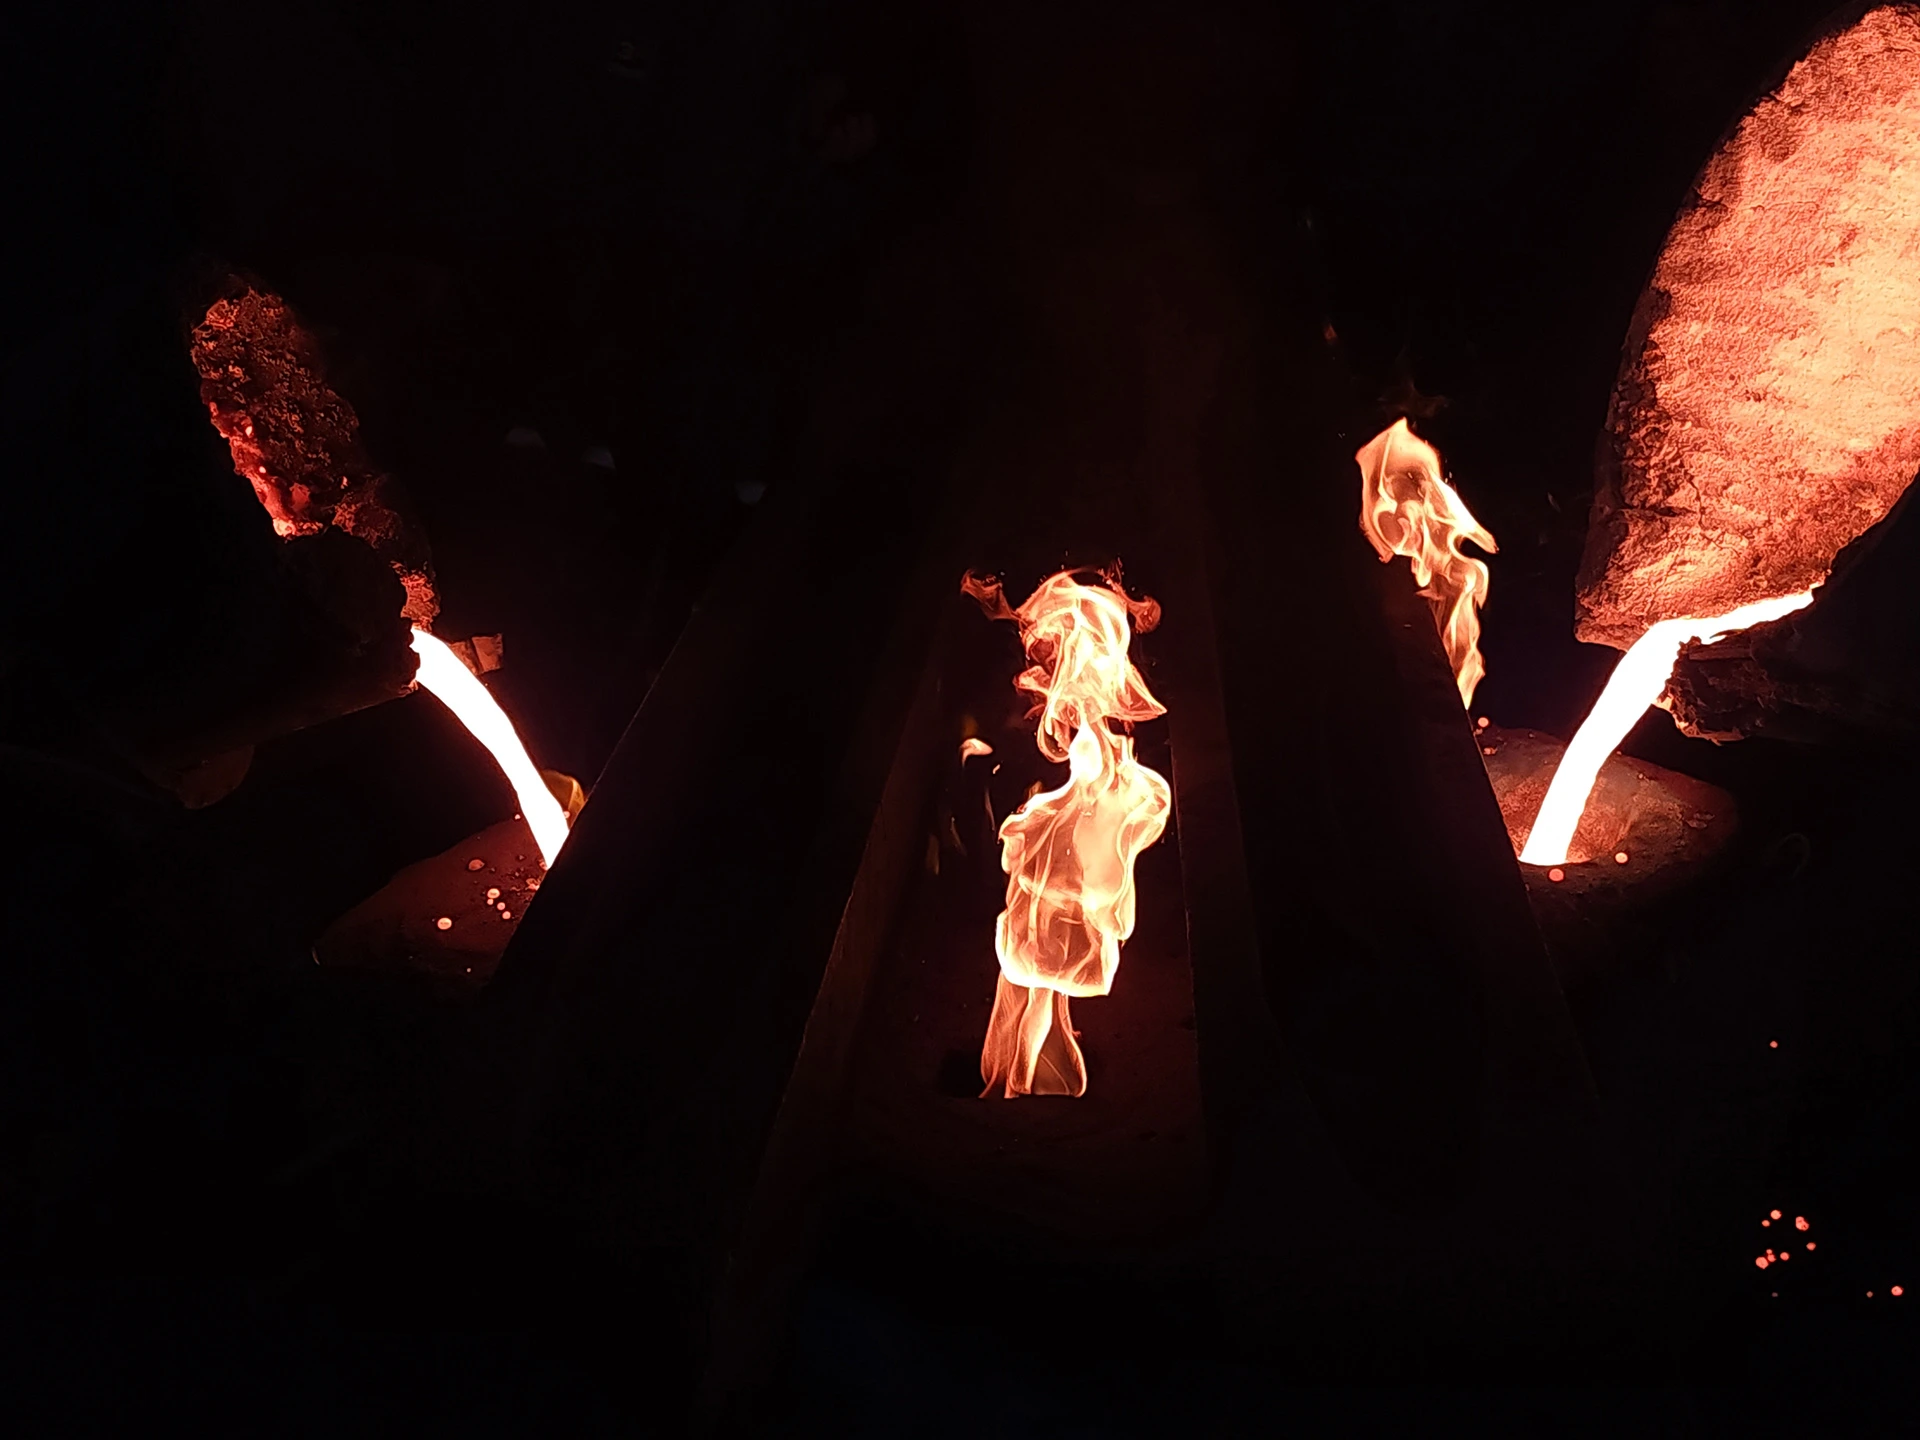
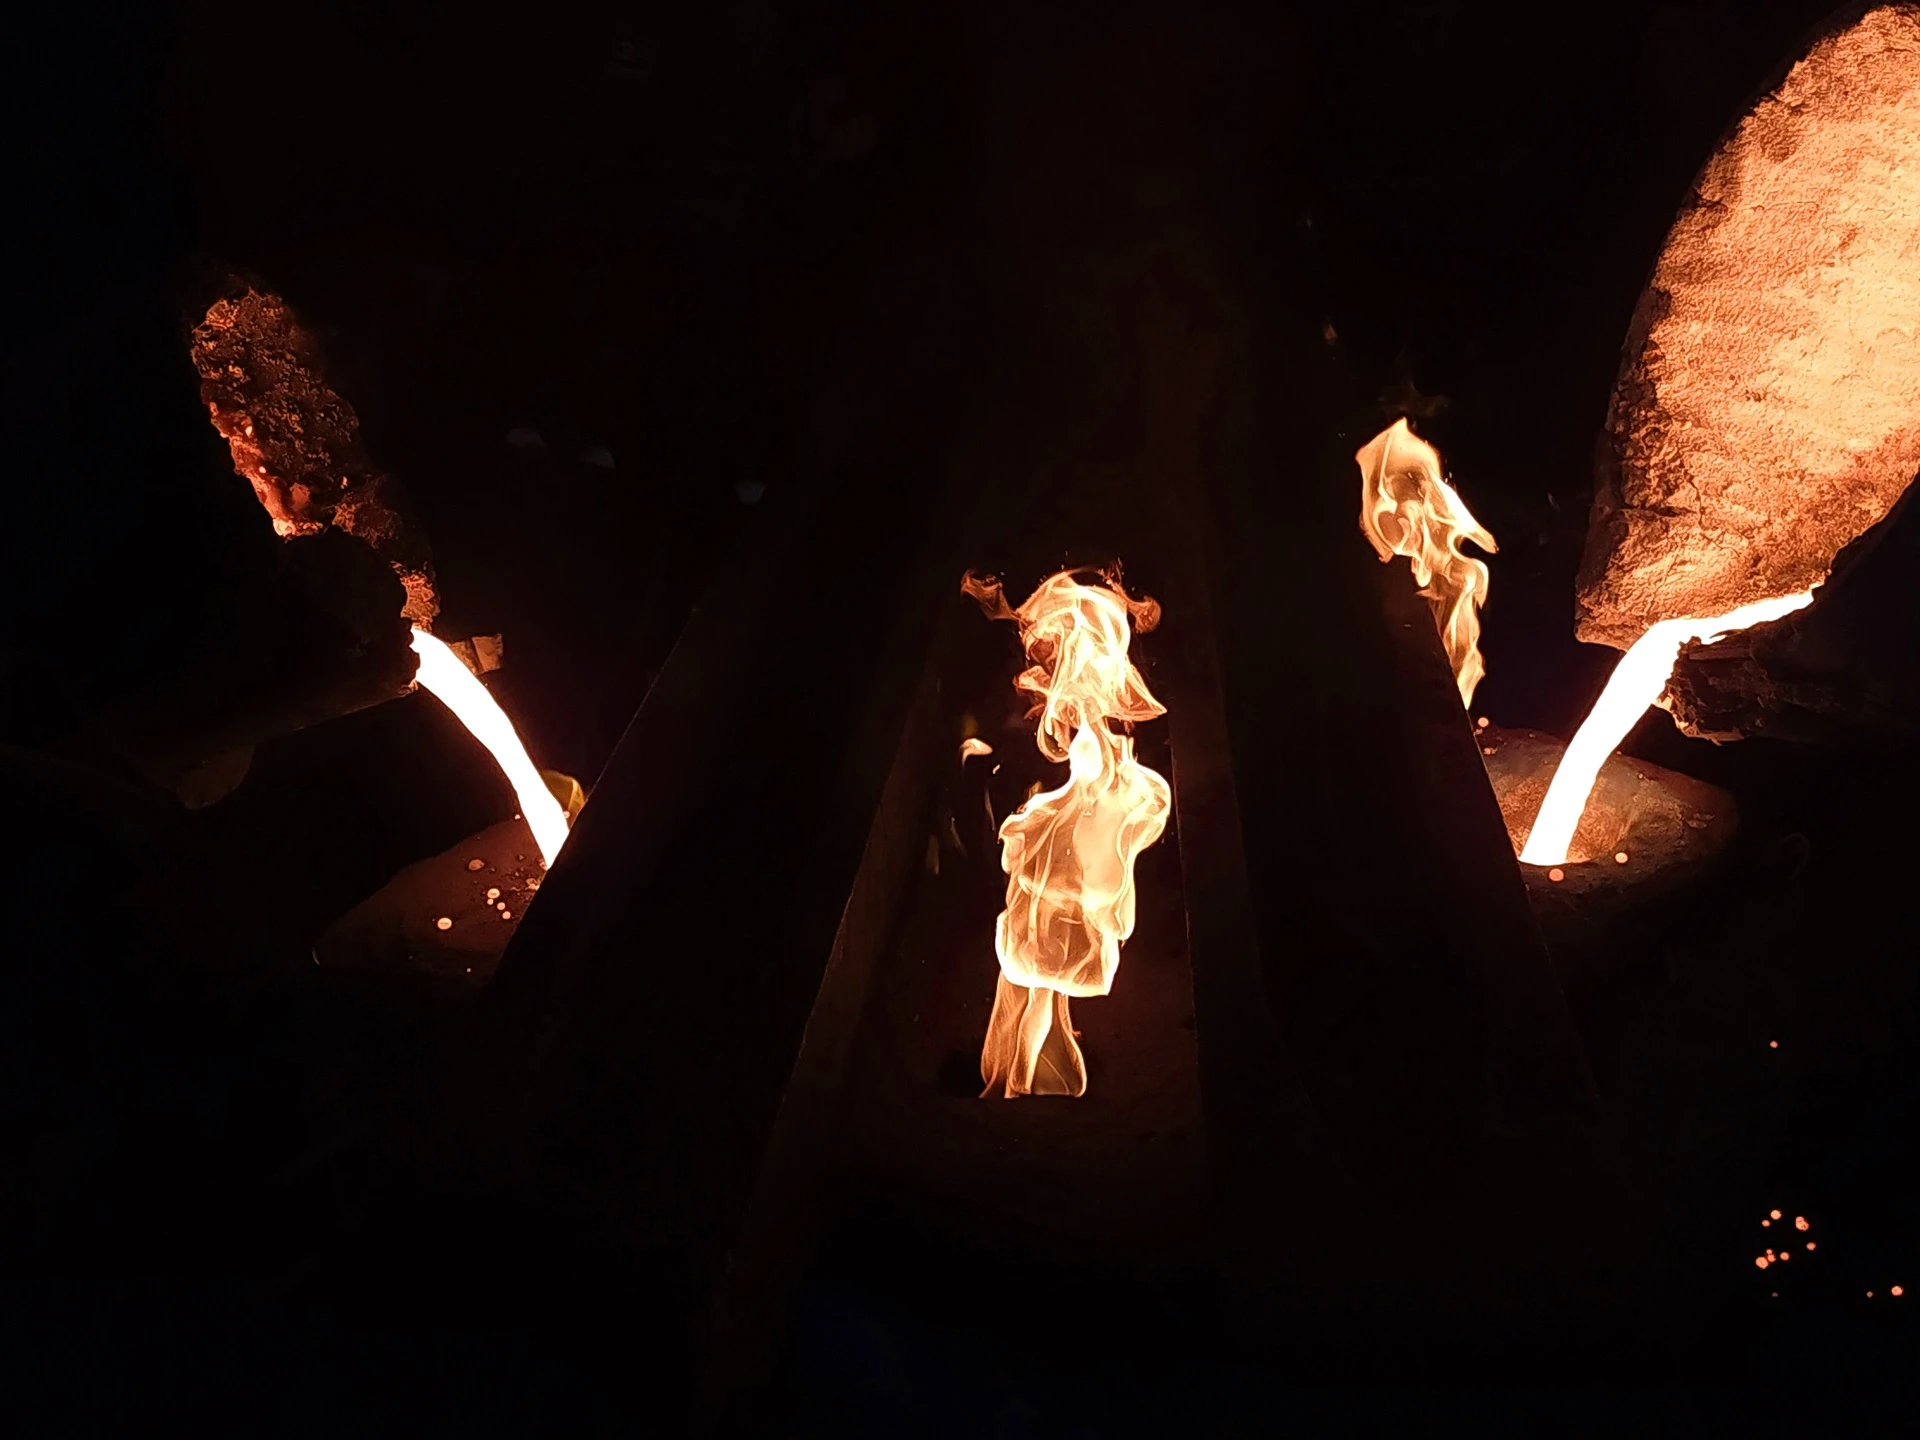
zoom carousel portrait 150%

diff --git a/src/components/carouselZoom/CarouselZoom.jsx b/src/components/carouselZoom/CarouselZoom.jsx
@@ -33,7 +33,7 @@ const CarouselZoom = () => {
 
     return (
         <div className='contImgHome flex' ref={contImgHome} id="inicio">
-            <img src="/images/slider/2.webp" alt="" className='imgHome'/> 
+            <img src="/images/slider/2.webp" alt="" className='imgHome imgHome1'/> 
             <img src="/images/slider/3.webp" alt="" className='imgHome'/> 
             <img src="/images/slider/4.webp" alt="" className='imgHome'/> 
             <img src="/images/slider/5.webp" alt="" className='imgHome'/> 

diff --git a/src/components/carouselZoom/carouselZoom.css b/src/components/carouselZoom/carouselZoom.css
@@ -23,6 +23,10 @@
     filter: grayscale(25%) contrast(90%) brightness(50%);
 }
 
+.imgHome1 {
+    filter: grayscale(0) saturate(125%) contrast(80%) brightness(50%);
+}
+
 .imgContrast {
     filter: contrast(85%);
 }
